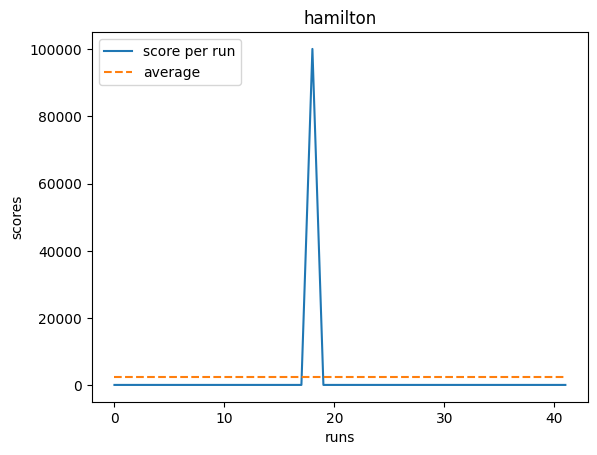
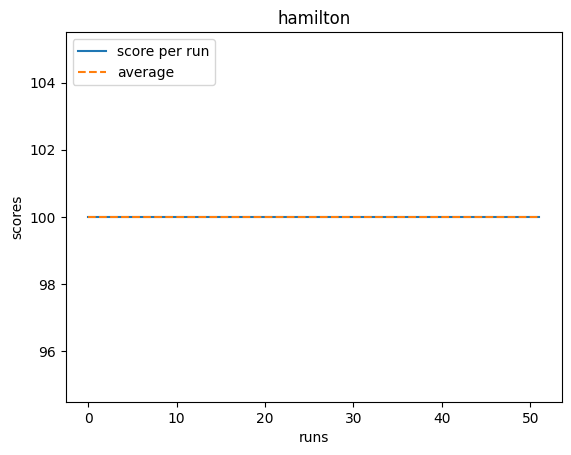
cycle can begin from any node

diff --git a/game/models/domain_specific/hamilton_ai_solver.py b/game/models/domain_specific/hamilton_ai_solver.py
@@ -27,7 +27,7 @@ class HamiltonSolver(BaseGameModel):
             if next_index == len(hamilton_path):
                 return hamilton_path[0].action
             elif node.point.x == self.starting_node.point.x and node.point.y == self.starting_node.point.y:
-                self.starting_node = hamilton_path[next_index]
+                # self.starting_node = hamilton_path[next_index]
                 return hamilton_path[next_index].action
         return environment.snake_action
 
@@ -59,36 +59,36 @@ class HamiltonSolver(BaseGameModel):
     def get_hamiltonian_path(self):
         head = self.starting_node
 
+    def rotate_cycle(self,cycle, starting_point):
+        temp_array = cycle.copy()
+        for node in cycle:
+            first_node_in_place = node.point.x== starting_point.point.x and node.point.y == starting_point.point.y
+            if not first_node_in_place:
+                starting_node = temp_array.pop(0)
+                temp_array.append(starting_node)
+            else:
+                self.hamilton_path = temp_array
+                return
+
     def _hamilton_path(self, environment):
         if self.hamilton_path:
             return self.hamilton_path
 
         head = self.starting_node
         inverse_snake_action = Action.get_reverse(environment.snake_action)
-        # available_actions = [Action.UP, Action.DOWN, Action.LEFT, Action.RIGHT]
-        # available_actions.remove(environment.snake_action)
-        # available_actions.remove(inverse_snake_action)
-        # if head.point.x == 1 and Action.RIGHT in available_actions:
-        #     available_actions.remove(Action.RIGHT)
-        # elif head.point.x==10 and Action.LEFT in available_actions:
-        #     available_actions.remove(Action.LEFT)
-        #
-        # if head.point.y == 1 and Action.DOWN in available_actions:
-        #     available_actions.remove(Action.DOWN)
-        # elif head.point.y == 10 and Action.UP in available_actions:
-        #     available_actions.remove(Action.UP)
-
-
         tail = environment.snake[-1]
         tail_point = tail.move(inverse_snake_action)
         tail = Node(tail_point)
 
-        # Conor hacking the solution to always win
+        # clone some of the attributes for reassignment later
+        starting_x = head.point.x
+        starting_y = head.point.y
+
+        # Move the snake to somewhere where the longest path will be defined
         environment.tiles[head.point.y][head.point.x] = Tile.empty
         head.action = Action.LEFT
         head.point.x = 3
         head.point.y = 1
-        # self.starting_node = head
 
         tail.point.x = 4
         tail.point.y = 1
@@ -98,39 +98,23 @@ class HamiltonSolver(BaseGameModel):
         environment.snake[0].y = 1
         environment.snake_action = Action.LEFT
         environment.tiles[1][3] = Tile.snake
-        environment.snake[0] = head.point
 
-        if self.hamilton_path:
-            return self.hamilton_path
+        # find the hamiltonian path
         longest_path_solver = LongestPathSolver()
         self.hamilton_path = longest_path_solver.longest_path(head, tail, environment)
-        # while len(self.hamilton_path) < 100:
-        #     next_action = random.choice(available_actions)
-        #     available_actions.remove(next_action)
-        #     tail = environment.snake[-1]
-        #     tail_point = tail.move(next_action)
-        #     tail = Node(tail_point)
-        #     self.hamilton_path = longest_path_solver.longest_path(head, tail, environment)
 
-        # current_x = temp_head.point.x
-        # current_y = temp_head.point.y
-        # environment.snake[0].x = current_x
-        # environment.snake[0].y = current_y
-        # # environment.snake_action = temp_head.action
-        # environment.tiles[1][3] = Tile.empty
-        # environment.tiles[current_y][current_x] = Tile.snake
-        # environment.snake[0] = temp_head.point
-        # return self.hamilton_path
 
+       # move the snake back to where it started in the game
+        environment.tiles[1][3] = Tile.empty
+        environment.tiles[starting_y][starting_x] = Tile.snake
+
+        start_point = Point(starting_x, starting_y)
+        environment.snake[0] = start_point
+        start_node = Node(start_point)
+        self.rotate_cycle(self.hamilton_path,start_node)
+        self.starting_node = self.hamilton_path[0]
+        environment.snake_action = self.starting_node.action
         return self.hamilton_path
-
-        # if self.hamilton_path:
-        #     return self.hamilton_path
-        # longest_path_solver = LongestPathSolver()
-        # self.hamilton_path = longest_path_solver.longest_path(head, tail, environment)
-        # while len(self.hamilton_path) < 100:
-        #     self.hamilton_path = longest_path_solver.longest_path(head, tail, environment)
-        # return self.hamilton_path
 
 
 
